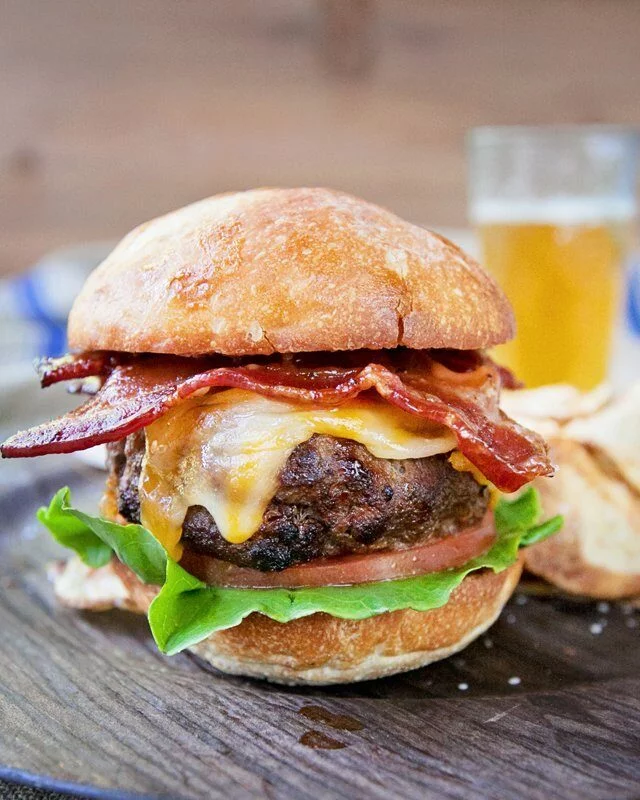
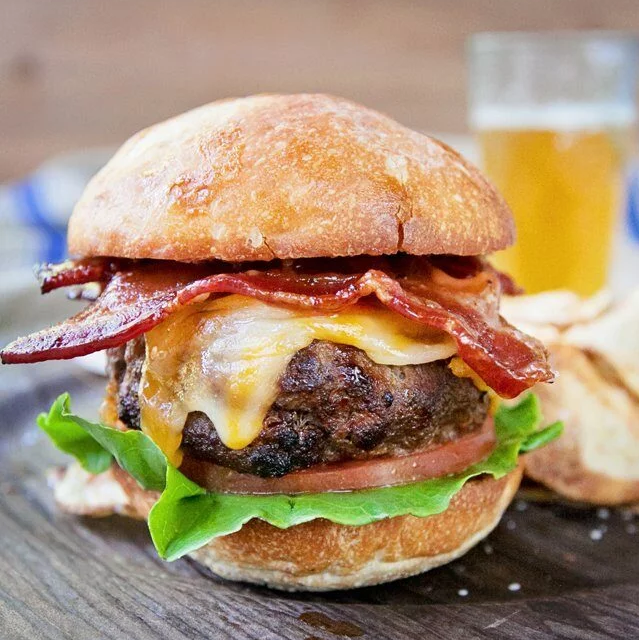
cropped the images

diff --git a/index.html b/index.html
@@ -39,8 +39,8 @@
             <input type="text" class="search-input" id="search-box" placeholder="Search">
             <i class="fas fa-search"></i>
         </div>
-        <div class="cart-items-container">
-            <div class="cart-item">
+        <div class="cart-items-container" id="cartContainer">
+            <!-- <div class="cart-item">
                 <i class="fas fa-times"></i>
                 <img src="./images/logo.png" alt="menu">
                 <div class="content">
@@ -71,6 +71,12 @@
                     <h3>cart item 04</h3>
                     <div class="price">$ </div>
                 </div>
+            </div> -->
+            <ul id="cartContainerList">
+                
+            </ul>
+            <div class="emptyCart">
+                <h2>There is nothing to see here!</h2>
             </div>
             <a href="#" class="btn">check out </a>
         </div>

diff --git a/style.css b/style.css
@@ -104,7 +104,7 @@ a{
 ::-webkit-scrollbar{
     height: 0.5rem;
     width: 1rem;
-    background-color: rgb(7, 126, 182);
+    background-color: rgb(172, 181, 190);
 }
 
 ::-webkit-scrollbar-track{
@@ -247,6 +247,14 @@ a{
 
 .header #menu-btn{
     display: none;
+}
+
+.emptyCart{
+    width: 100%;
+    height: 100px;
+    display: flex;
+    align-items: center;
+    justify-content: center;
 }
 /* ------------------------------------------HEADER SECTION */
 

diff --git a/script.js b/script.js
@@ -34,3 +34,11 @@ menuBtn.addEventListener('click', ()=>{
     })
 })
 
+var cartContainer = document.getElementById("cartContainer")
+var cartContainerList = document.getElementById("cartContainerList")
+
+function addToCard(id) {
+    var newItem = document.createElement('li');
+    newItem.appendChild(document.createTextNode('New Item'))
+    cartContainerList.appendChild(newItem);
+}
